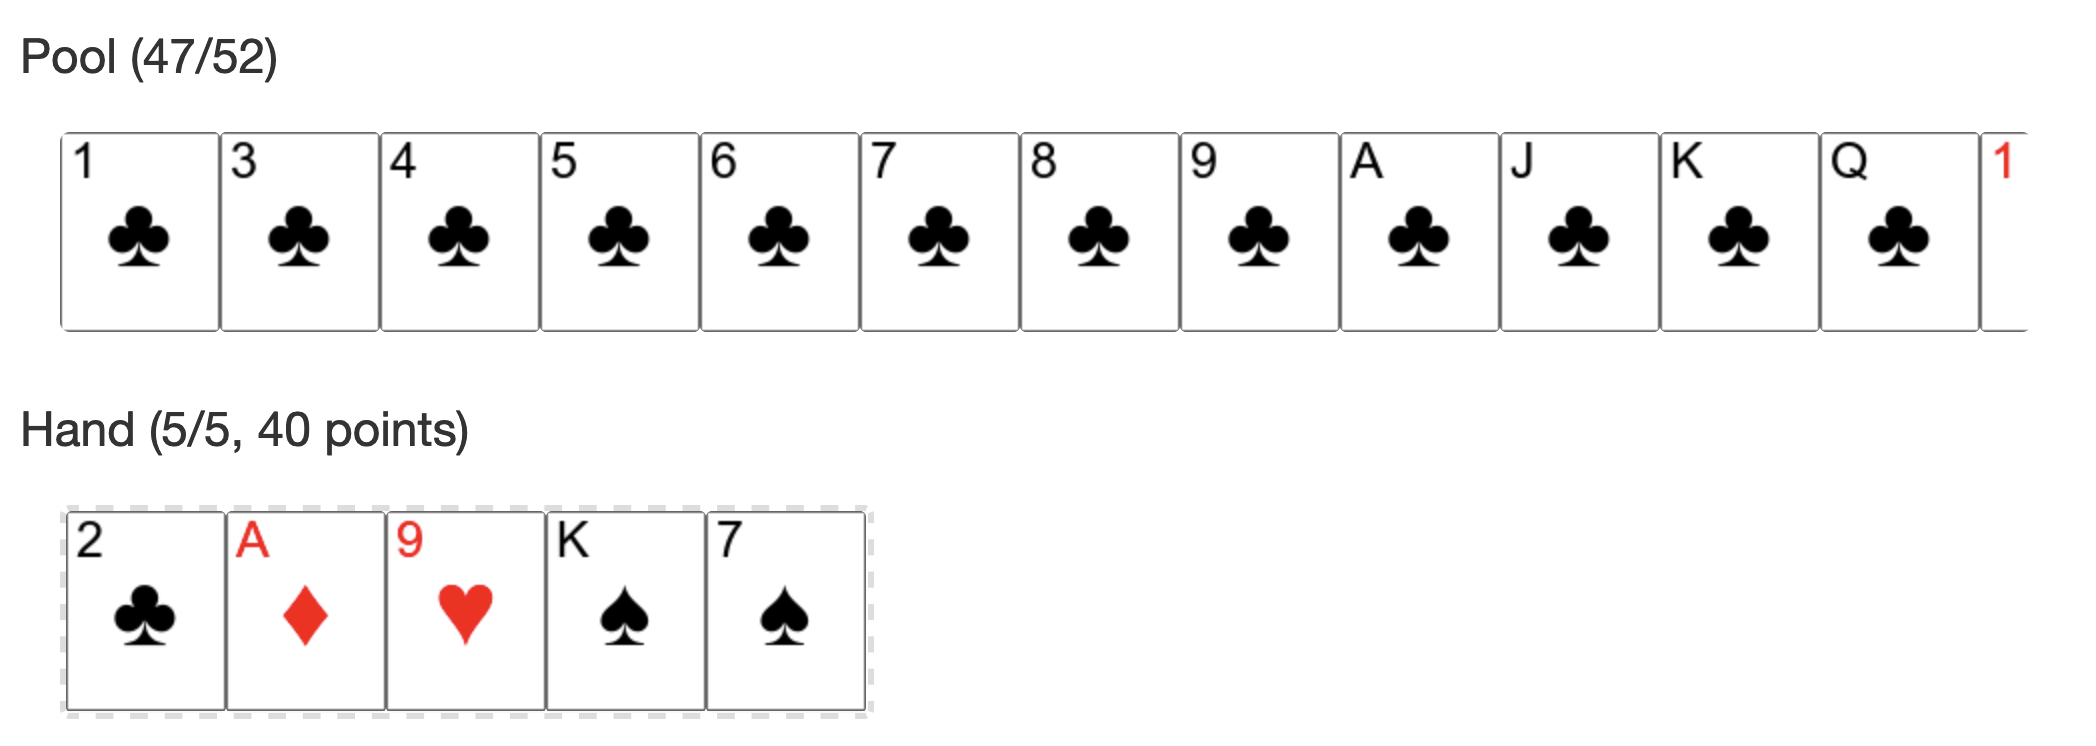
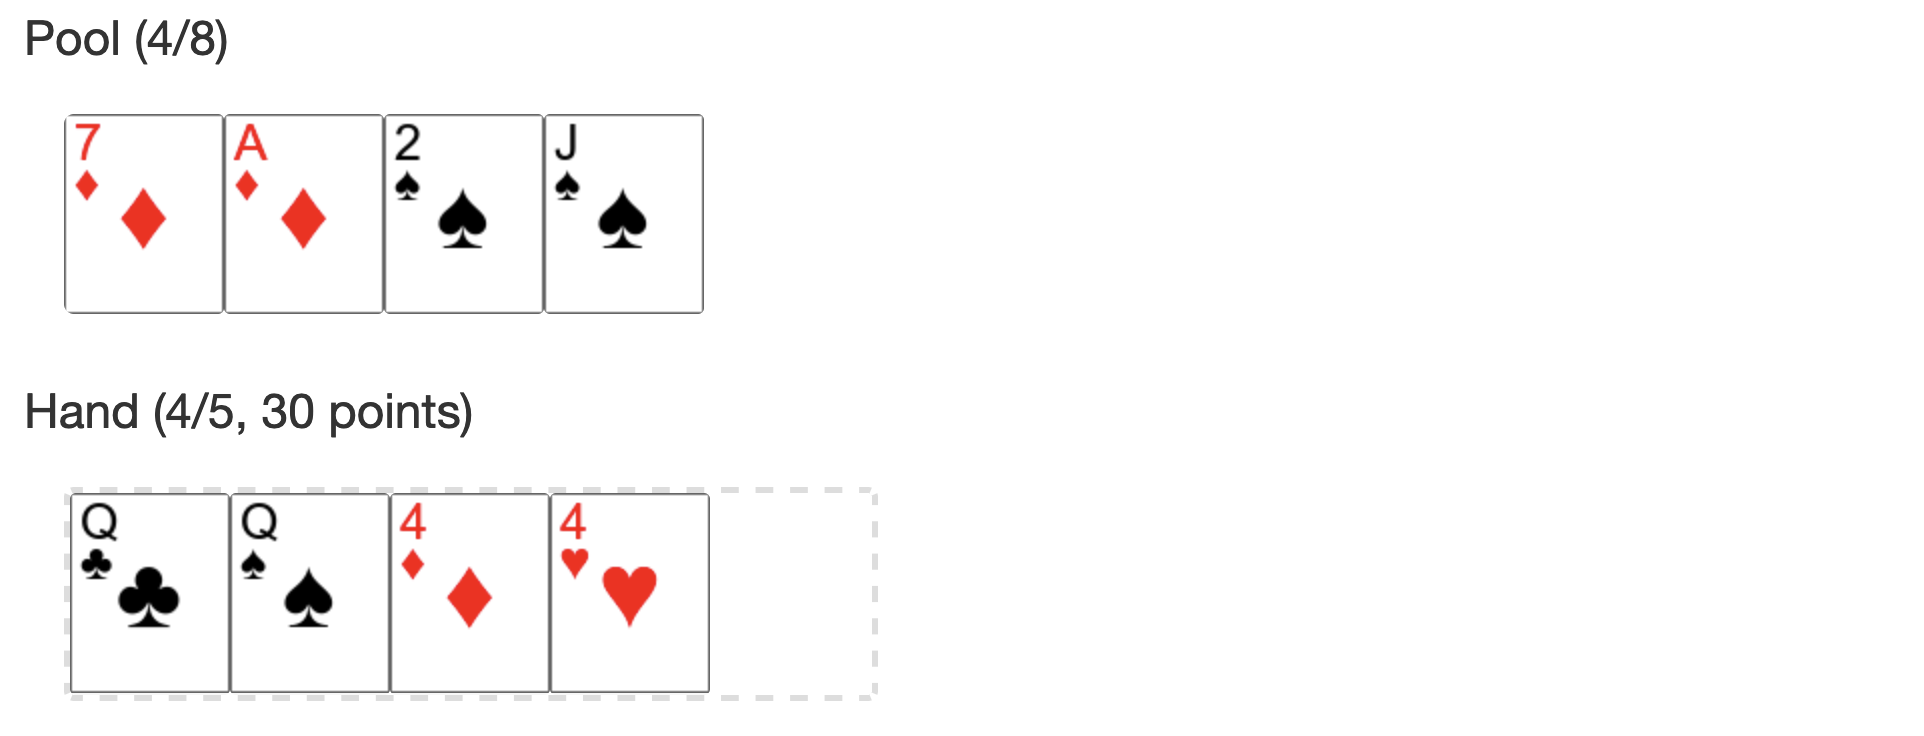
Update README

diff --git a/README.md b/README.md
@@ -9,4 +9,4 @@ A test of [the {sortable} package](https://rstudio.github.io/sortable/) to see h
 
 [Available on the web](https://matt-dray.github.io/not-balatro/) and prepared for serverless deployment with [{shinylive}](https://posit-dev.github.io/r-shinylive/). Very much a work in progress/proof of concept.
 
-<img src='img/cards.png' alt="Two rows of playing cards labelled 'pool' and 'hand'. The number of cards is shown as 47 out of 52 in the pool and 5 out of 5 in the hand. There is also a score of 40 points shown by the hand, which is the sum of each card's value (2, ace, 9, king and 7).">
+<img src='img/cards.png' alt="Two rows of playing cards labelled 'pool' and 'hand'. The number of cards is shown as 4 out of 8 in the pool and 4 out of 5 in the hand. There is also a score of 30 points shown by the hand, which is the sum of each card's value (a two pair of queens and 4s).">
